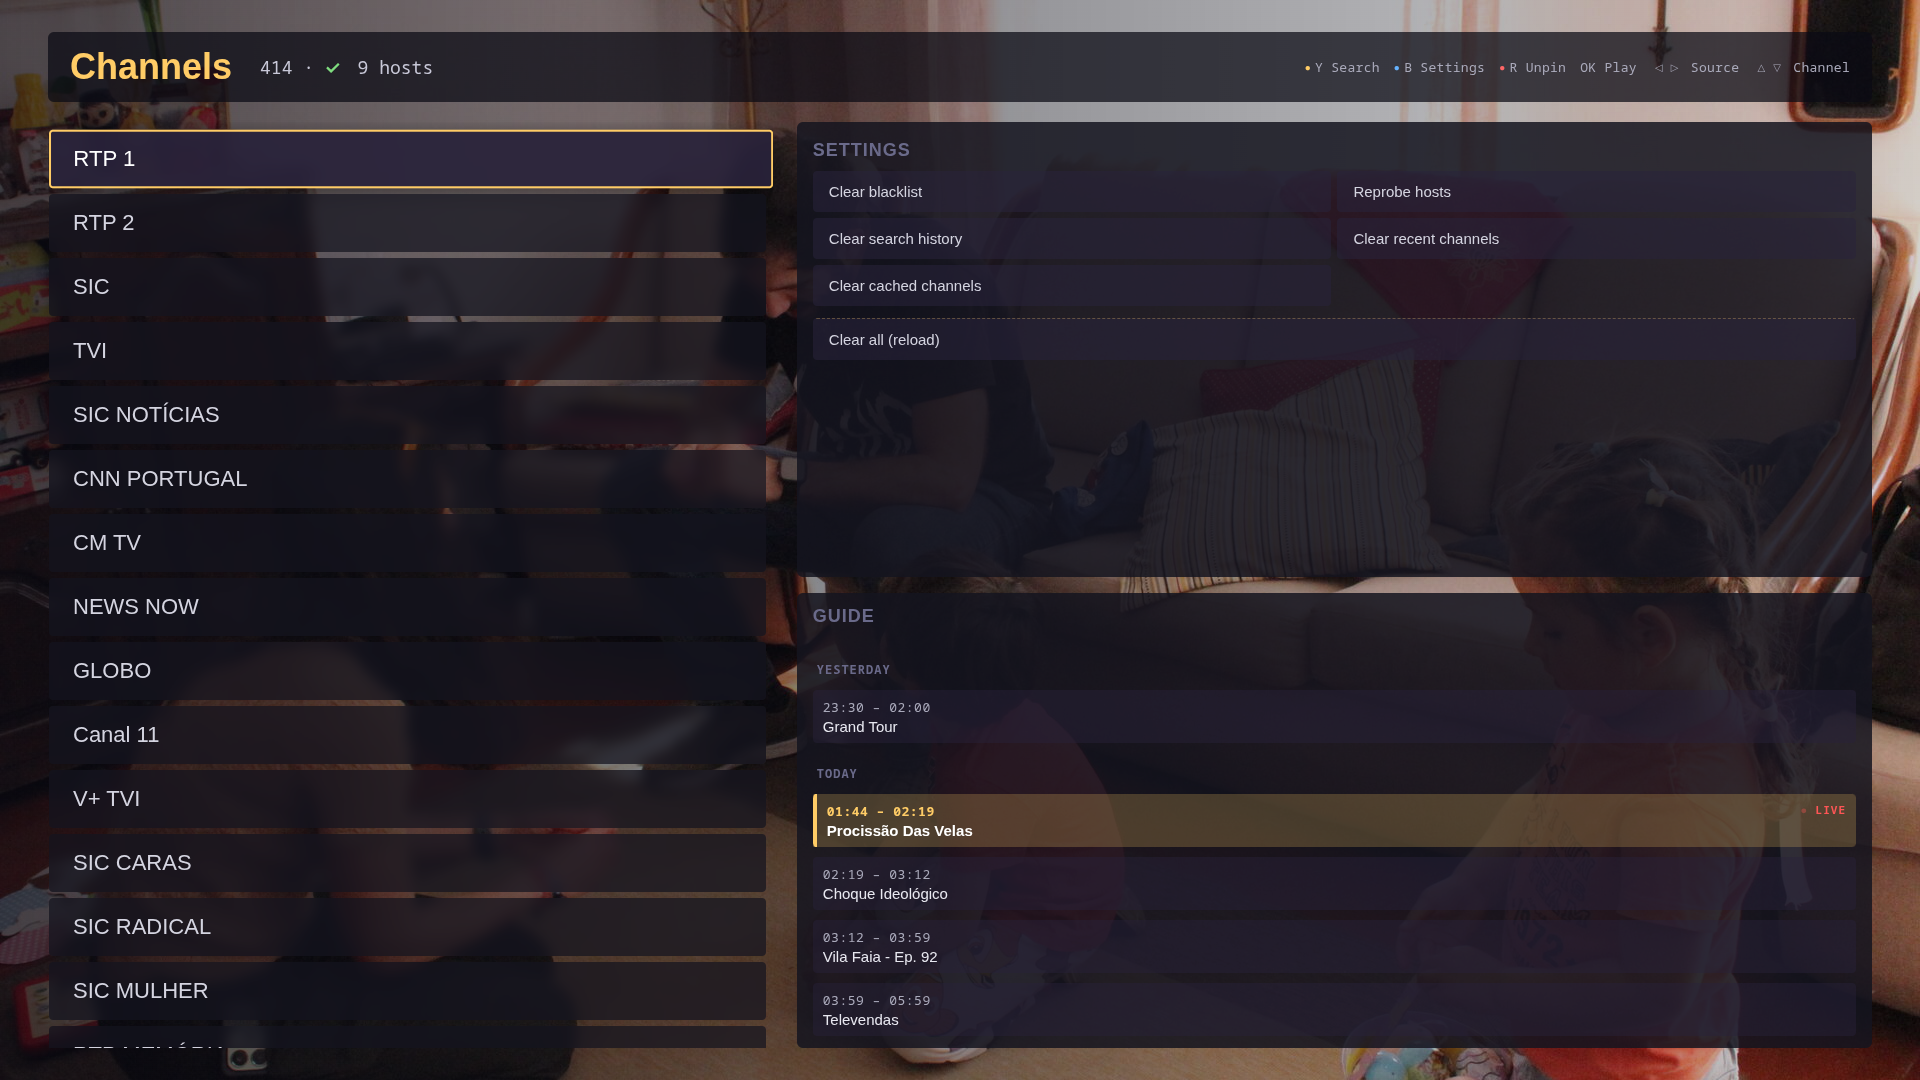
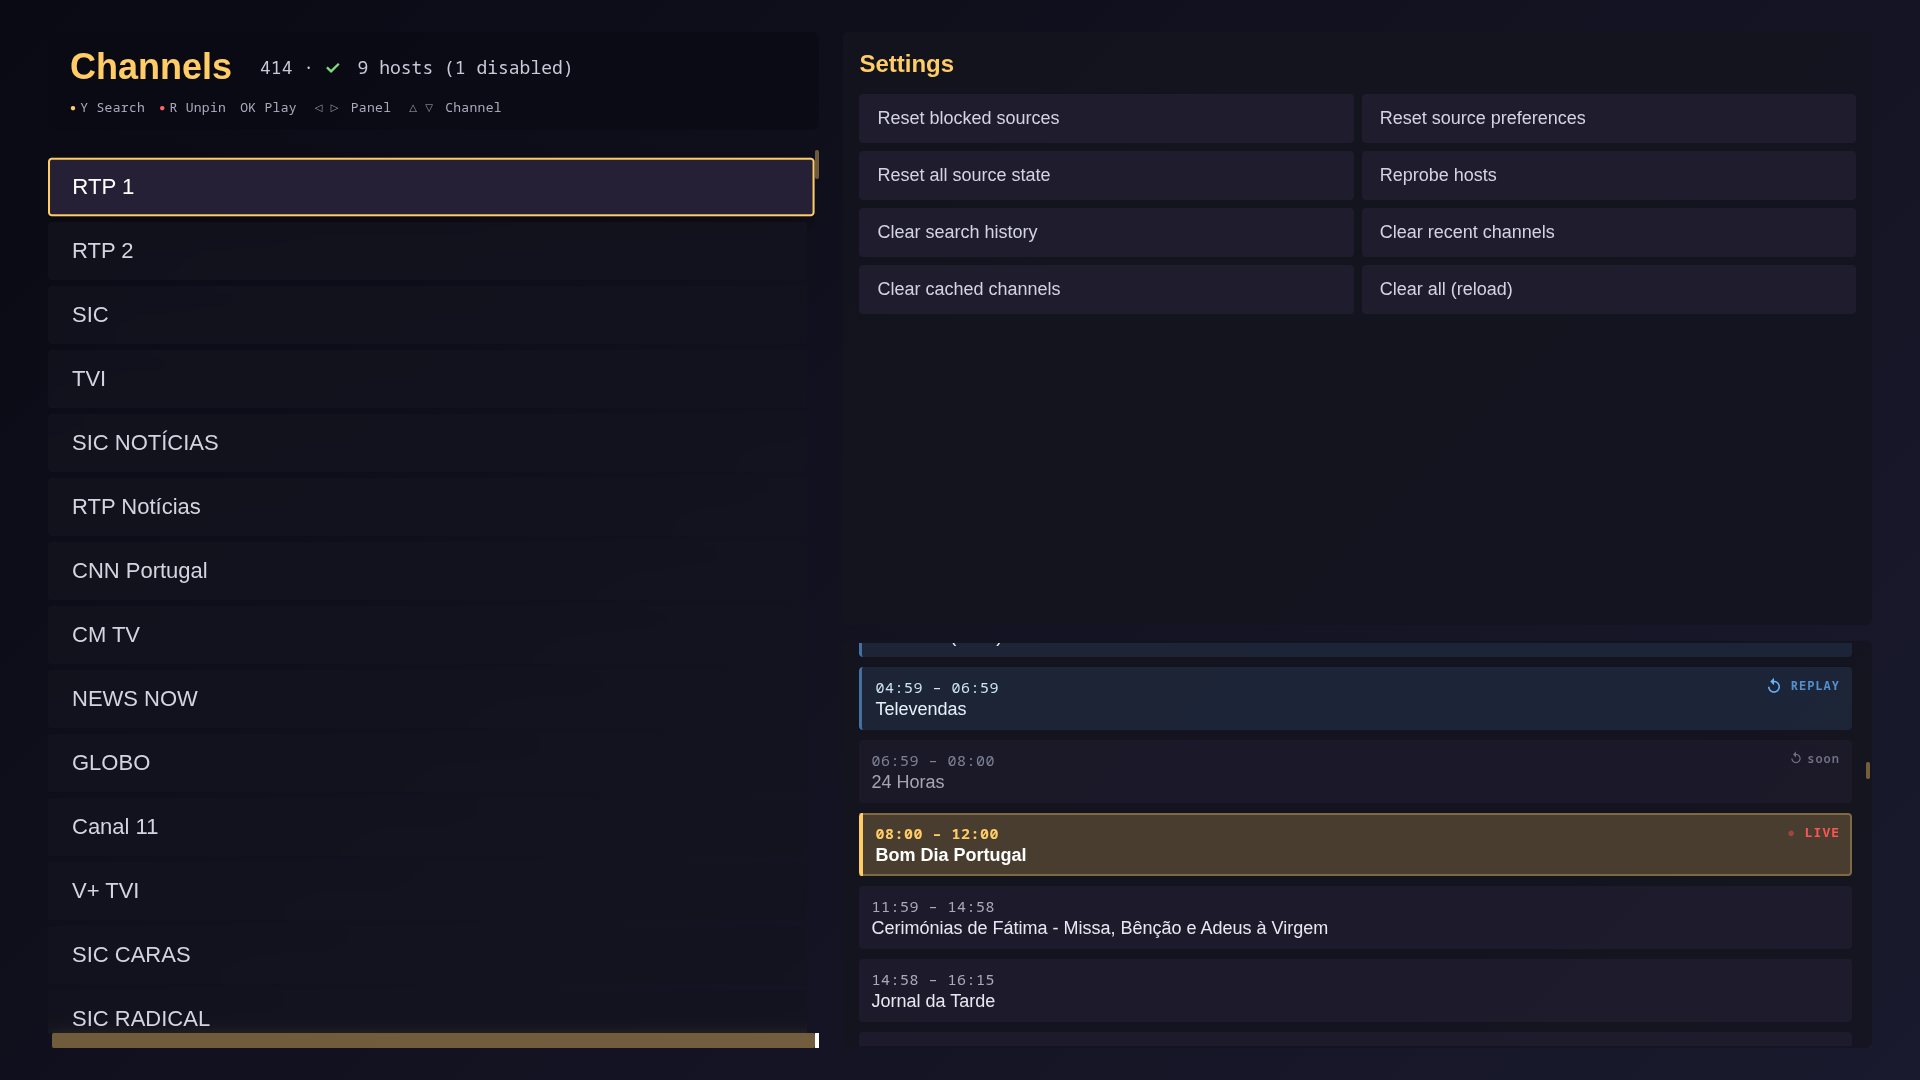
README: lead with standalone server + browser UI, webOS on top
The server now hosts the same UI it always packaged for webOS as
static files, so http://server:8080/ in any browser is a fully usable
IPTV client. Reframe the README accordingly:

- Lead with "self-hosted IPTV server with browser UI"; webOS is a
  bonus deployment of the same app.
- Replace the screenshots with three fresh captures taken from the
  running browser UI (channel list with EPG, search filter, EPG focus).
  Drop the old mini-overlay / fullscreen shots — neither rendered
  usefully without HLS playback.
- Document /admin/clear-classifier in the API table.

diff --git a/README.md b/README.md
@@ -1,97 +1,112 @@
 # iptv
 
-Self-hosted IPTV stack for LG webOS: a thin TV app and a Rust proxy that aggregates Xtream Codes providers, dedupes channels, manages EPG, and fails over between sources.
+Self-hosted IPTV server with a browser UI. Aggregates Xtream Codes providers across multiple hosts, dedupes channels, manages EPG, and proxies live streams with automatic source failover. A webOS app for LG TVs ships in the same repo and reuses the same UI — but the server stands alone: any browser on your LAN is a fully functional client.
 
-![Channel list on the TV](docs/screenshots/channels.png)
+![Channel list with EPG](docs/screenshots/channels.png)
 
 ## What is this
 
-A two-piece IPTV setup I built for my LG OLED. Personal-scale, no ads, no telemetry, no analytics. The TV runs a small webOS app written in vanilla JavaScript — no framework, no build step. Everything that needs to think (Xtream auth, host probing, deduplication, EPG aggregation, source failover, segment proxying) lives in a Rust backend you run on a box in your LAN. The TV just renders.
+A standalone IPTV server I built for myself. Personal-scale, no ads, no telemetry, no analytics.
 
-Built and tested against the LG OLED B4 (webOS 9.2.4). Should work on most modern LG TVs running webOS in developer mode.
+- **The server** (`server/`, Rust) does all the work: probes Xtream hosts in parallel, builds a canonical channel catalog (dedupes across providers, ranks by quality), aggregates EPG, proxies live segments with retries, tracks per-URL / per-host health, and serves the UI as static files. Run it on any Linux box on your LAN.
+- **The browser UI** (`app/`, vanilla JS — no framework, no build step) is served directly by the Rust process. Open `http://your-server:8080/` from any device that has a browser and you have a working IPTV client.
+- **The webOS app** (same `app/`, packaged as an IPK) is a bonus: the exact same UI, wrapped for LG TVs in Developer Mode so the TV remote drives the experience natively.
 
 ## How it works
 
 ```
-┌──────────────┐   HTTP   ┌──────────────────┐   HTTP   ┌────────────────────┐
-│ webOS TV app │ ───────▶ │  iptv-proxy      │ ───────▶ │  Xtream provider   │
-│ (app/, JS)   │ ◀─────── │  (server/, Rust) │ ◀─────── │  (multiple hosts)  │
-└──────────────┘  m3u8/ts └──────────────────┘  m3u8/ts └────────────────────┘
-                                  │
-                           probe / dedup / EPG / blacklist
+                     ┌──────────────────┐   HTTP   ┌────────────────────┐
+   browser  ───────▶ │  iptv-proxy      │ ───────▶ │  Xtream provider   │
+                  ┌─▶│  (server/, Rust) │ ◀─────── │  (multiple hosts)  │
+   webOS app  ────┘  └──────────────────┘  m3u8/ts └────────────────────┘
+                              │
+                       serves the UI ·  probe / dedup / EPG / blacklist
 ```
 
-- **`app/`** — webOS application. Talks to the proxy over HTTP, renders the channel list and the player, handles the remote. ~50 KB of JS, zero dependencies.
-- **`server/`** — `iptv-proxy`, a Rust HTTP service (axum + reqwest). Probes Xtream hosts in parallel, builds a canonical channel catalog, serves EPG, proxies live segments with retries, and tracks per-URL / per-host health so dead sources get pushed to the back.
+The server owns everything stateful and operational. Clients (browser or TV) just fetch JSON from `/api/*`, render the list, and point a `<video>` at `/play/<channel>.m3u8` — which the server then proxies, retrying across upstream sources transparently when one fails.
 
 ## Features
 
 - Parallel multi-host probing with first-alive-wins boot
-- Canonical channel deduplication across providers (prefers RAW / 4K / FHD / HD, in that order)
+- Canonical channel deduplication across providers (RAW / 4K / FHD / HD preference order)
 - EPG with multi-source merge, including catch-up (`tv_archive`) support
 - Sequential source failover at play time, with per-URL blacklist + per-host demote on repeated failures
-- Client-driven feedback: the TV reports the URL it just failed on, the server learns
+- Client-driven feedback: the client reports a URL it failed on; the server learns
+- Static-file serving of the same UI used by the webOS app — `http://server:8080/` is a usable client
+- Optional LG webOS deployment via `make deploy` (`ares-package` → `scp` → `luna install`)
 - Hold-to-scroll with acceleration (380 ms → 45 ms over ~1.5 s)
 - Instant render from cache on boot — no spinners
-- Laptop development via a tiny Python dev server + Playwright
-- CDP-based self-test loop for driving the running app on the TV from your shell
 
 ## Screenshots
 
-| Channel list | Mini overlay while playing |
+| Channel list with EPG | Search filter |
 | :---: | :---: |
-| ![Channel list](docs/screenshots/channels.png) | ![Mini overlay](docs/screenshots/mini-overlay.png) |
-| **Multi-day EPG with catch-up** | **Fullscreen playback** |
-| ![EPG](docs/screenshots/epg.png) | ![Fullscreen](docs/screenshots/fullscreen.png) |
+| ![Channel list](docs/screenshots/channels.png) | ![Search](docs/screenshots/search.png) |
 
-## Quickstart — backend
+The UI is designed for a 1080p TV but renders fine in any browser window.
 
-You need Docker, an Xtream Codes account, and a host that's reachable from your TV's LAN.
+![EPG panel focused](docs/screenshots/epg.png)
+
+## Quickstart — server (and browser UI)
+
+You need Docker and an Xtream Codes account.
 
 ```bash
+git clone https://github.com/miguelglopes/iptv.git
+cd iptv
 cp server/config.example.toml server/config.toml
 # Edit server/config.toml — fill in [xtream] username, password, and hosts.
+
+cp app/js/config.example.js app/js/config.js
+# Edit app/js/config.js — for the browser UI, set PROXY_BASE_URL = '' (empty = same origin).
+# If you point a TV or another machine at the server, set it to the server's LAN URL instead.
+
 docker compose up -d
 
 curl http://localhost:8080/api/status     # should return JSON with `hosts`, `catalog`, etc.
 ```
 
+Then open **http://localhost:8080/** in any browser. That's the whole UI — channel list, EPG, playback, search, settings.
+
+Keyboard:
+
+| Action | Key |
+| --- | --- |
+| Move focus | Arrow keys |
+| Play / select | Enter |
+| Back / exit | Escape or Backspace |
+| Search | `y` or `F3` |
+| Pin / unpin channel | `r` or `F1` |
+| Cycle panels (list / settings / EPG) | `b` or `F4` |
+| Next / previous channel | PageUp / PageDown |
+| Jump to top / bottom | Home / End |
+
 Configuration lives in `server/config.toml` (gitignored). The example file documents every section: which Xtream hosts to probe, how often, EPG TTL, blacklist thresholds, segment buffer sizes, etc.
 
-## Quickstart — TV app
+## Optional — LG webOS deployment
+
+If you have an LG TV in Developer Mode and want the same UI native on the TV with the remote driving it:
 
 Prereqs:
-- LG TV in Developer Mode (and ideally Homebrew Channel for permanence)
+- LG TV in Developer Mode (ideally with Homebrew Channel for permanence)
 - `ares-cli`: `npm i -g @webosose/ares-cli`
 - `~/.webos/ose/novacom-devices.json` populated by LG webOS Studio / Dev Manager
-- `rsync`, `scp`, `python3`
 
 ```bash
-cp app/js/config.example.js app/js/config.js
-# Edit app/js/config.js — set PROXY_BASE_URL to your iptv-proxy LAN address.
+# Edit app/js/config.js so PROXY_BASE_URL points at the server's LAN address.
+# (The TV's network resolves this URL itself, so 'http://localhost' won't work — use the LAN IP.)
 
 make setup     # one-time: derive ~/.ssh/lgtv_dev from novacom-devices.json
 make deploy    # ~2 s: ares-package → scp IPK → luna install → launch
 ```
 
-The remote-key bindings are listed in [`CLAUDE.md`](CLAUDE.md#laptop-keys). Yellow opens search, Red toggles pinned channels, Blue cycles settings panels, the rest is standard.
+TV remote mapping, deploy internals, and webOS-specific quirks live in [`CLAUDE.md`](CLAUDE.md).
 
-## Develop without a TV
-
-For pure-UI work (layout, sort, EPG panel, mini ↔ fullscreen transitions) you can drive the app on your laptop. Much faster than the TV deploy cycle.
-
-```bash
-make serve         # serves app/ on http://localhost:8000 with cache-busting
-```
-
-Drive Chromium via Playwright. Real Xtream data flows through (the proxy allows CORS from `localhost`). The one thing that doesn't work locally is HLS playback — Chromium has no native HLS decoder, so video pixels only show up after a real TV deploy.
-
-For the **self-test loop on a running TV** (CDP tunnel + `tv-eval` / `tv-key` / `tv-shot` / `tv-log` scripts that let you drive the app from your shell and screenshot the webview), see [`CLAUDE.md`](CLAUDE.md#self-test-loop-the-killer-workflow).
-
-## HTTP API (proxy)
+## HTTP API
 
 | Method | Path | Purpose |
 |---|---|---|
+| `GET`  | `/` (and any unmatched path) | Static UI from `app/` |
 | `GET`  | `/api/channels` | Canonical channel list with play URLs and catch-up metadata |
 | `GET`  | `/api/epg/:key` | EPG for a channel — server walks all sources in parallel |
 | `GET`  | `/api/status` | Hosts / catalog / EPG / blacklist health |
@@ -99,31 +114,30 @@ For the **self-test loop on a running TV** (CDP tunnel + `tv-eval` / `tv-key` / 
 | `POST` | `/admin/reprobe` | Force a host reprobe + catalog refresh |
 | `POST` | `/admin/clear-blacklist` | Forget all per-URL / per-host failures |
 | `POST` | `/admin/clear-demoted` | Promote demoted URLs back to normal priority |
-| `POST` | `/admin/clear-all` | Clear blacklist + demoted + last-known-good |
+| `POST` | `/admin/clear-classifier` | Reset the codec classifier cache |
+| `POST` | `/admin/clear-all` | Clear blacklist + demoted + last-known-good + classifier |
 | `GET`  | `/play/:name` | HLS playlist proxy for a channel key |
 | `GET`  | `/seg/:token` | Opaque-token segment proxy used by the playlist |
+
+## Develop without the full stack
+
+For pure-UI work (layout, sort, EPG panel, mini ↔ fullscreen transitions) you can serve `app/` standalone:
+
+```bash
+make serve         # serves app/ on http://localhost:8000 with cache-busting
+```
+
+Then drive it via Playwright or just your browser. Real Xtream data flows through (the proxy allows CORS from `localhost`). The one thing that doesn't work locally is HLS playback — Chromium has no native HLS decoder, so video pixels only show up either through the running server's TS pipeline or after a real TV deploy.
+
+For the **self-test loop on a running TV** (CDP tunnel + `tv-eval` / `tv-key` / `tv-shot` / `tv-log` scripts that let you drive the app from your shell and screenshot the webview), see [`CLAUDE.md`](CLAUDE.md#self-test-loop-the-killer-workflow).
 
 ## Layout
 
 ```
-app/                  packaged into the IPK
-  appinfo.json        webOS manifest
-  index.html          entry
-  bg.jpg              wallpaper
-  icon.png largeIcon.png
-  css/app.css
-  js/
-    main.js           entry — state, render, remote handlers, boot flow
-    api.js            thin fetch wrapper around the proxy
-    remote.js         LG remote key handlers + hold-to-repeat
-    player.js         single <video>, multi-source sequential failover
-    cache.js          localStorage
-    config.js         (gitignored — copy from config.example.js)
-
-server/               Rust proxy (axum + tokio + reqwest)
+server/               Rust proxy (axum + tokio + reqwest) — the brain
   src/
-    main.rs           router + probe / catalog loops
-    api.rs            HTTP handlers
+    main.rs           router + probe / catalog loops + static UI serving
+    api.rs            HTTP handlers (JSON endpoints + admin)
     xtream.rs         Xtream Codes API client
     hosts.rs          parallel host probing
     canonical.rs      dedup + variant ranking
@@ -131,13 +145,28 @@ server/               Rust proxy (axum + tokio + reqwest)
     epg.rs            EPG aggregation across sources
     blacklist.rs      URL / host failure tracking
     proxy.rs          playlist + segment proxy with retries
+    codec.rs          codec / container classification
     default_order.rs  curated default channel ordering
     config.rs state.rs
   Cargo.toml Dockerfile
   config.example.toml example proxy config
   tests/e2e.py        end-to-end Python test
 
-scripts/              dev tooling
+app/                  vanilla-JS UI — served by the Rust process AND packaged for webOS
+  appinfo.json        webOS manifest
+  index.html          entry
+  bg.jpg              wallpaper
+  icon.png largeIcon.png
+  css/app.css
+  js/
+    main.js           entry — state, render, key handlers, boot flow
+    api.js            thin fetch wrapper around the proxy
+    remote.js         LG remote key codes + laptop key aliases + hold-to-repeat
+    player.js         single <video>, multi-source sequential failover
+    cache.js          localStorage
+    config.js         (gitignored — copy from config.example.js)
+
+scripts/              dev / deploy tooling
   setup-key           one-time: build ~/.ssh/lgtv_dev from novacom-devices.json
   tv-ssh tv-tunnel    SSH and CDP forwarding helpers
   tv-eval tv-key tv-shot tv-log   drive the running app from your shell
@@ -150,7 +179,7 @@ Makefile              deploy / launch / close / ssh / logs / clean / serve
 
 ## Quirks worth knowing
 
-A few things bit me on the way; full details with diagnostic recipes in [`CLAUDE.md`](CLAUDE.md#known-quirks):
+A few things bit me on the way; full details with diagnostic recipes in [`CLAUDE.md`](CLAUDE.md):
 
 - **`max-activated-media-players=1`** on webOS — parallel racing for the fastest source hangs the renderer. Sequential failover only.
 - **HLS MIME on webOS** — `application/vnd.apple.mpegurl` fails; `application/x-mpegURL` works. Plain `video.src = url` works for `.m3u8` and `.ts`.